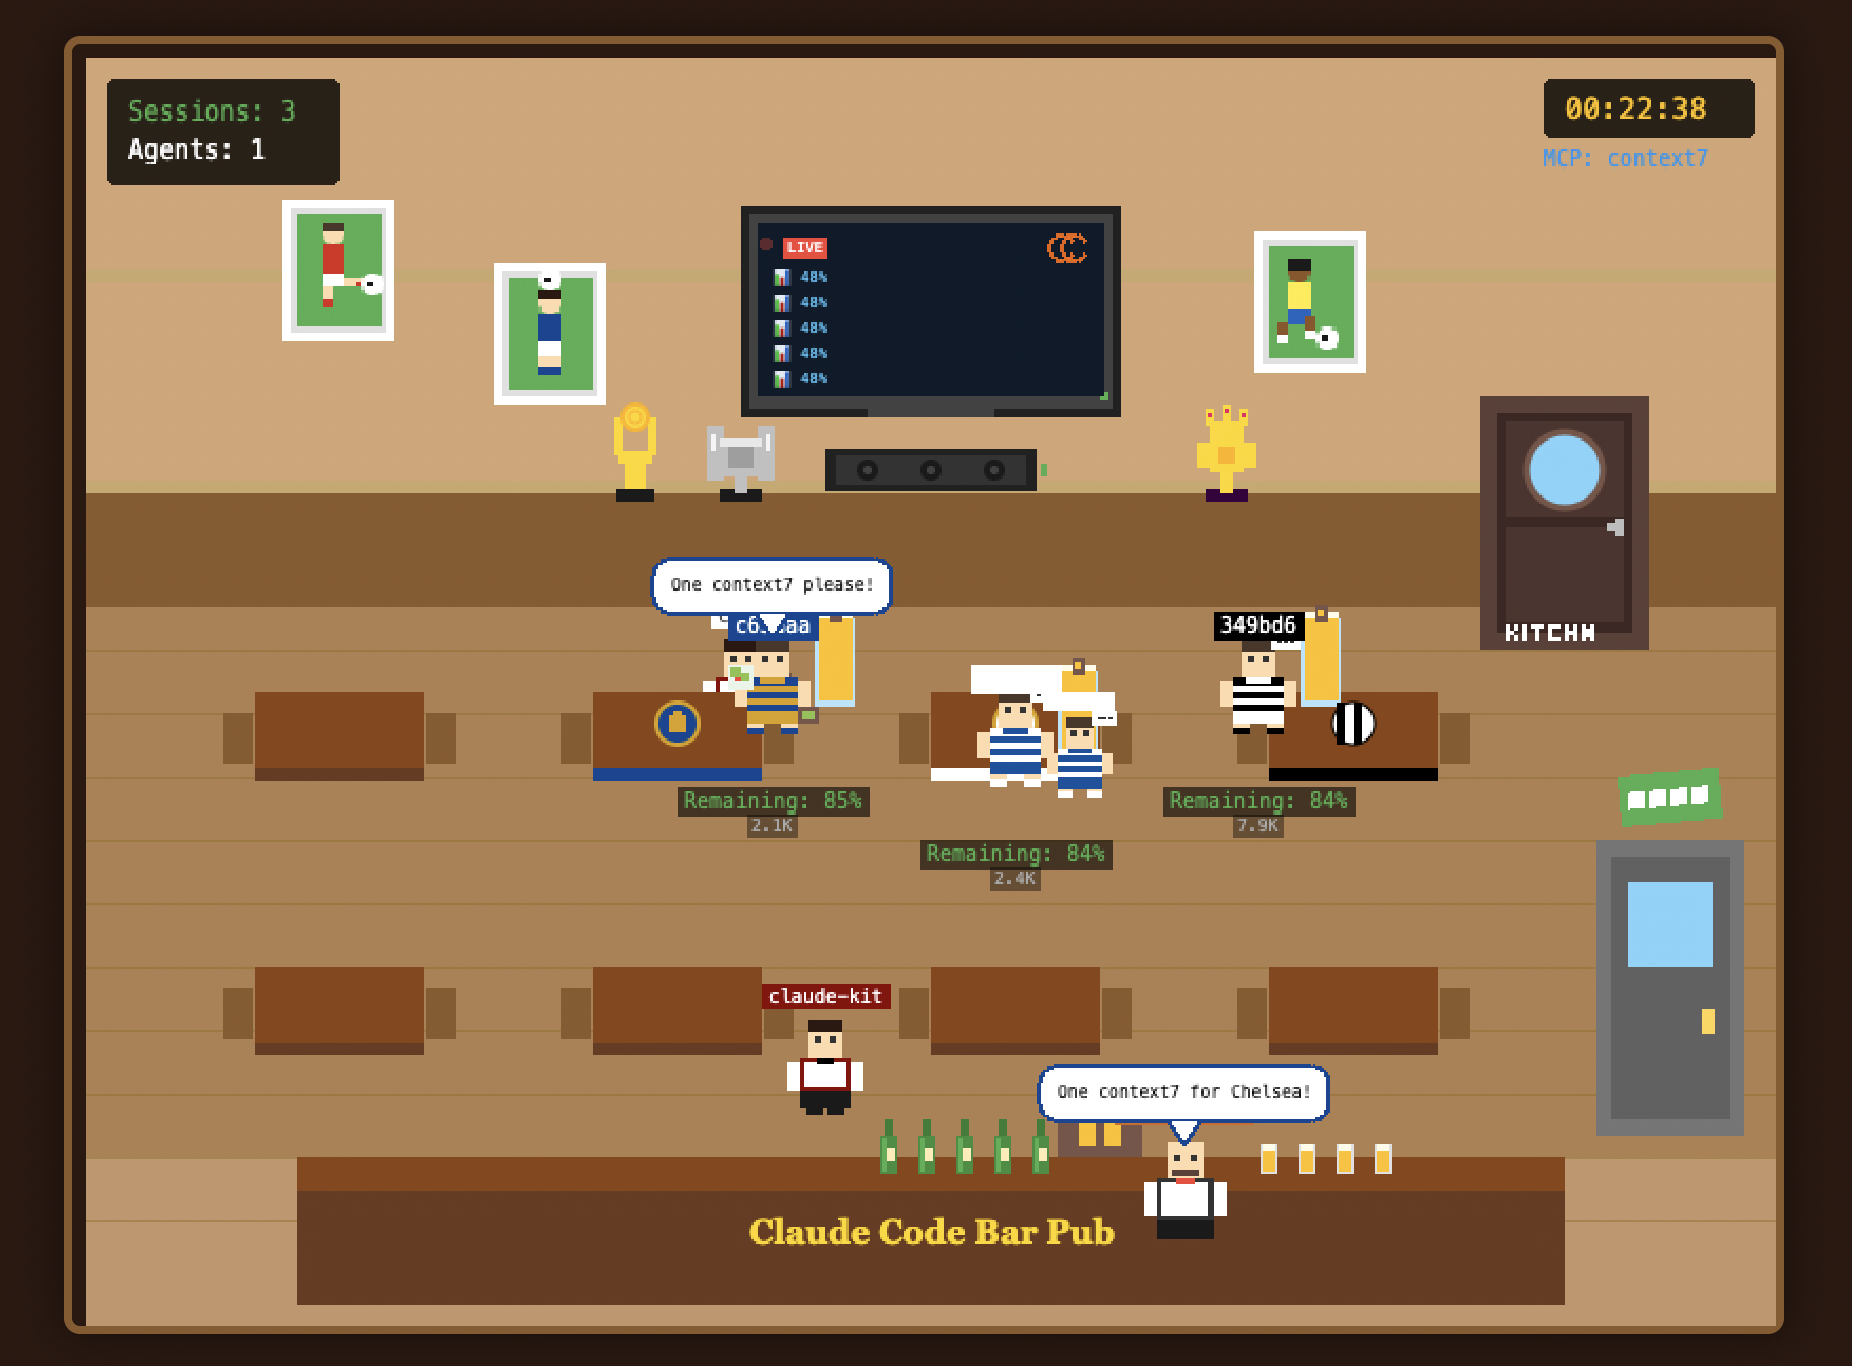
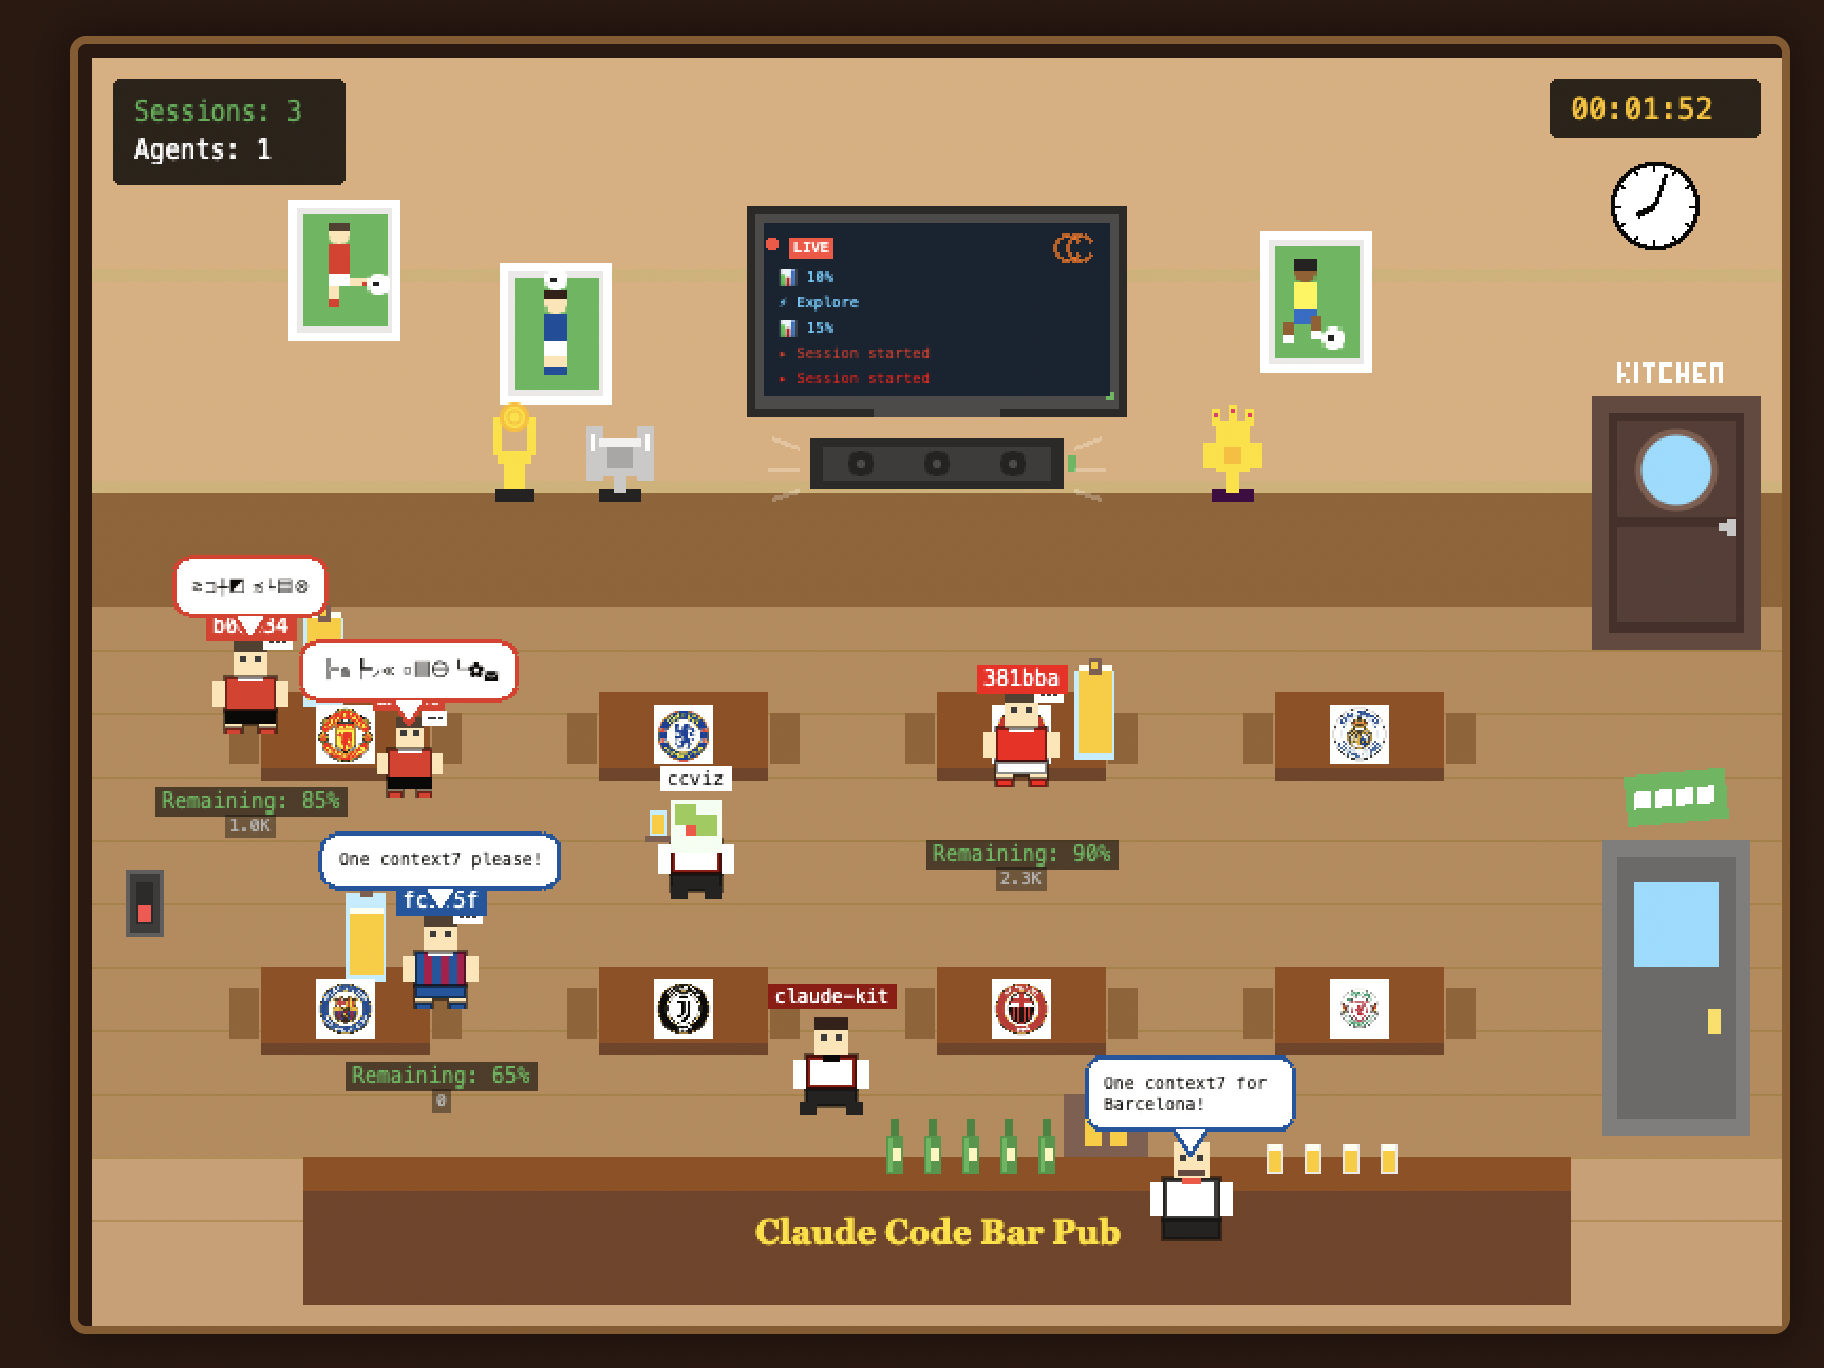
docs: update README and fix kitchen door position
- Update README with day/night cycle feature, improved project structure
- Add new screenshot
- Move KITCHEN label above door (not overlapping)
- Align kitchen door with entrance door (x=750)

diff --git a/src/client/scenes/PreloadScene.ts b/src/client/scenes/PreloadScene.ts
@@ -75,7 +75,7 @@ export class PreloadScene extends Phaser.Scene {
     this.createSimpleTexture('sign-closed', 64, 24, this.drawClosedSign.bind(this));
     this.createSimpleTexture('sign-rate-limit', 80, 32, this.drawRateLimitSign.bind(this));
     this.createSimpleTexture('table', 80, 48, this.drawTable.bind(this));
-    this.createSimpleTexture('kitchen-door', 80, 120, this.drawKitchenDoor.bind(this));
+    this.createSimpleTexture('kitchen-door', 80, 140, this.drawKitchenDoor.bind(this));
     this.createSimpleTexture('tv-frame', 180, 100, this.drawTVFrame.bind(this));
     this.createSimpleTexture('trophy-worldcup', 36, 50, this.drawTrophyWorldCup.bind(this));
     this.createSimpleTexture('trophy-champions', 40, 50, this.drawTrophyChampions.bind(this));
@@ -834,66 +834,70 @@ export class PreloadScene extends Phaser.Scene {
   }
 
   private drawKitchenDoor(ctx: CanvasRenderingContext2D) {
+    // "KITCHEN" label above door (pixel art letters)
+    ctx.fillStyle = '#FFFFFF';
+    const labelY = 4; // Top area above door
+    // K
+    ctx.fillRect(12, labelY, 2, 10);
+    ctx.fillRect(14, labelY + 5, 2, 2);
+    ctx.fillRect(16, labelY, 2, 2);
+    ctx.fillRect(16, labelY + 8, 2, 2);
+    // I
+    ctx.fillRect(20, labelY, 2, 10);
+    // T
+    ctx.fillRect(24, labelY, 6, 2);
+    ctx.fillRect(26, labelY + 2, 2, 8);
+    // C
+    ctx.fillRect(32, labelY, 6, 2);
+    ctx.fillRect(32, labelY + 2, 2, 6);
+    ctx.fillRect(32, labelY + 8, 6, 2);
+    // H
+    ctx.fillRect(40, labelY, 2, 10);
+    ctx.fillRect(44, labelY, 2, 10);
+    ctx.fillRect(40, labelY + 5, 6, 2);
+    // E
+    ctx.fillRect(48, labelY, 6, 2);
+    ctx.fillRect(48, labelY + 2, 2, 6);
+    ctx.fillRect(48, labelY + 5, 4, 2);
+    ctx.fillRect(48, labelY + 8, 6, 2);
+    // N
+    ctx.fillRect(56, labelY, 2, 10);
+    ctx.fillRect(60, labelY, 2, 10);
+    ctx.fillRect(56, labelY, 6, 2);
+
+    // Door starts at y=20 (after label area)
+    const doorY = 20;
+
     // Door frame (wood)
     ctx.fillStyle = '#5D4037';
-    ctx.fillRect(0, 0, 80, 120);
+    ctx.fillRect(0, doorY, 80, 120);
 
     // Door inner frame
     ctx.fillStyle = '#3E2723';
-    ctx.fillRect(8, 8, 64, 104);
+    ctx.fillRect(8, doorY + 8, 64, 104);
 
     // Door panels (two)
     ctx.fillStyle = '#4E342E';
-    ctx.fillRect(12, 12, 56, 45);
-    ctx.fillRect(12, 62, 56, 45);
+    ctx.fillRect(12, doorY + 12, 56, 45);
+    ctx.fillRect(12, doorY + 62, 56, 45);
 
     // Circular window (porthole)
     ctx.fillStyle = '#81D4FA';
     ctx.beginPath();
-    ctx.arc(40, 35, 18, 0, Math.PI * 2);
+    ctx.arc(40, doorY + 35, 18, 0, Math.PI * 2);
     ctx.fill();
 
     // Window frame
     ctx.strokeStyle = '#795548';
     ctx.lineWidth = 3;
     ctx.beginPath();
-    ctx.arc(40, 35, 18, 0, Math.PI * 2);
+    ctx.arc(40, doorY + 35, 18, 0, Math.PI * 2);
     ctx.stroke();
 
     // Door handle
     ctx.fillStyle = '#BDBDBD';
-    ctx.fillRect(60, 60, 8, 4);
-    ctx.fillRect(64, 58, 4, 8);
-
-    // "KITCHEN" label at top edge of door (pixel art letters)
-    ctx.fillStyle = '#FFFFFF';
-    // K
-    ctx.fillRect(12, 12, 2, 10);
-    ctx.fillRect(14, 17, 2, 2);
-    ctx.fillRect(16, 12, 2, 2);
-    ctx.fillRect(16, 20, 2, 2);
-    // I
-    ctx.fillRect(20, 12, 2, 10);
-    // T
-    ctx.fillRect(24, 12, 6, 2);
-    ctx.fillRect(26, 14, 2, 8);
-    // C
-    ctx.fillRect(32, 12, 6, 2);
-    ctx.fillRect(32, 14, 2, 6);
-    ctx.fillRect(32, 20, 6, 2);
-    // H
-    ctx.fillRect(40, 12, 2, 10);
-    ctx.fillRect(44, 12, 2, 10);
-    ctx.fillRect(40, 17, 6, 2);
-    // E
-    ctx.fillRect(48, 12, 6, 2);
-    ctx.fillRect(48, 14, 2, 6);
-    ctx.fillRect(48, 17, 4, 2);
-    ctx.fillRect(48, 20, 6, 2);
-    // N
-    ctx.fillRect(56, 12, 2, 10);
-    ctx.fillRect(60, 12, 2, 10);
-    ctx.fillRect(56, 12, 6, 2);
+    ctx.fillRect(60, doorY + 60, 8, 4);
+    ctx.fillRect(64, doorY + 58, 4, 8);
   }
 
   private drawTVFrame(ctx: CanvasRenderingContext2D) {

diff --git a/src/client/scenes/BarScene.ts b/src/client/scenes/BarScene.ts
@@ -57,8 +57,8 @@ export class BarScene extends Phaser.Scene {
       { x: 600, y: 450 }
     ],
     // Kitchen door replaces fireplace
-    kitchen: { x: 700, y: 240 },
-    kitchenDoor: { x: 700, y: 220 },
+    kitchen: { x: 750, y: 220 },
+    kitchenDoor: { x: 750, y: 210 },
     // Sub-agent waiting spots (near each table)
     subAgentSpots: [
       { x: 150, y: 350 },

diff --git a/README.md b/README.md
@@ -33,6 +33,7 @@
 - **Real-time visualization** of Claude Code sessions as pub customers
 - **Team-based identity** - each session gets a unique football team (8 teams available)
 - **Context tracking** - beer towers show remaining context (fills up as you code)
+- **Day/night cycle** - realistic 2-minute cycle simulating 24 hours with lighting effects
 - **Subagent visualization** - helper agents appear near their parent session
 - **MCP tool calls** - visualized as food orders from the kitchen
 - **NPC interactions** - bartender, waiter, and chef with speech bubbles
@@ -70,23 +71,24 @@ open http://localhost:5173
 ## How It Works
 
 ```
-┌─────────────────┐    HTTP Events    ┌─────────────────┐
-│   Claude Code   │ ───────────────── │  ccviz Server   │
-│  (with hooks)   │    Port 3847      │ (Express + WS)  │
-└─────────────────┘                   └────────┬────────┘
+┌─────────────────┐    HTTP Events    ┌──────────────────┐
+│   Claude Code   │ ───────────────── │  ccviz Server    │
+│  (with hooks)   │    Port 3847      │(Express+Socket.io)
+└─────────────────┘                   └────────┬─────────┘
                                                │
                                           WebSocket
                                                │
                                       ┌────────▼────────┐
                                       │ Browser Client  │
-                                      │  (Phaser.js)    │
+                                      │  (Phaser 3)     │
                                       └─────────────────┘
 ```
 
-1. **Hooks** are installed into Claude Code's `.claude/settings.json`
-2. When you use Claude Code, hooks send events to ccviz server
-3. The Phaser.js frontend visualizes events in real-time
-4. Each session becomes a customer with their team colors
+1. **Hooks** are installed into Claude Code's `.claude/` directory
+2. When you use Claude Code, hooks send events to ccviz server on port 3847
+3. Server handles REST events and maintains real-time state via Socket.io
+4. Phaser.js frontend visualizes events in real-time with animations
+5. Each session becomes a customer with their unique team colors and context tracking
 
 ## Visualization Guide
 
@@ -96,9 +98,10 @@ open http://localhost:5173
 | **Beer tower** | Context usage - drains as context fills |
 | **Team logo** on table | Session identifier |
 | **Bartender** | Main Claude Code instance |
-| **Waiter** (claude-kit) | Response delivery |
+| **Waiter** | Response delivery, controls day/night lighting |
 | **Chef** | MCP tool call handler |
 | **Subagent** | Task agents (Explore, Bash, etc.) |
+| **Wall clock** | Synced to day/night cycle |
 | **Speech bubbles** | MCP calls, greetings, interactions |
 | **TV display** | Live session statistics |
 
@@ -144,14 +147,19 @@ npm start
 ```
 ccviz/
 ├── src/
-│   ├── client/           # Phaser.js frontend
-│   │   ├── scenes/       # Game scenes (BarScene, PreloadScene)
-│   │   ├── sprites/      # Game objects (Customer, NPCs, etc.)
-│   │   └── state/        # State management
-│   ├── server/           # Express HTTP + WebSocket server
-│   └── shared/           # Shared types and constants
-├── scripts/              # CLI tools (install, uninstall)
-└── public/               # Static assets (sprites, fonts)
+│   ├── client/              # Phaser.js frontend (~6500 LOC)
+│   │   ├── scenes/          # Game scenes (BarScene, PreloadScene, HUDScene)
+│   │   ├── sprites/         # Game objects (SessionCustomer, Waiter, Chef, etc.)
+│   │   ├── managers/        # AudioManager, DayNightController
+│   │   ├── state/           # BarState (EventEmitter-based global state)
+│   │   └── utils/           # Helper utilities
+│   ├── server/              # Express HTTP + Socket.io server (~300 LOC)
+│   ├── shared/              # Shared types, constants, team configs (~230 LOC)
+│   └── vite-env.d.ts        # Vite type definitions
+├── scripts/                 # CLI tools (install, uninstall, start)
+├── public/                  # Static assets (sprites, fonts)
+├── tests/                   # Test suite
+└── docs/                    # Documentation
 ```
 
 ## License
